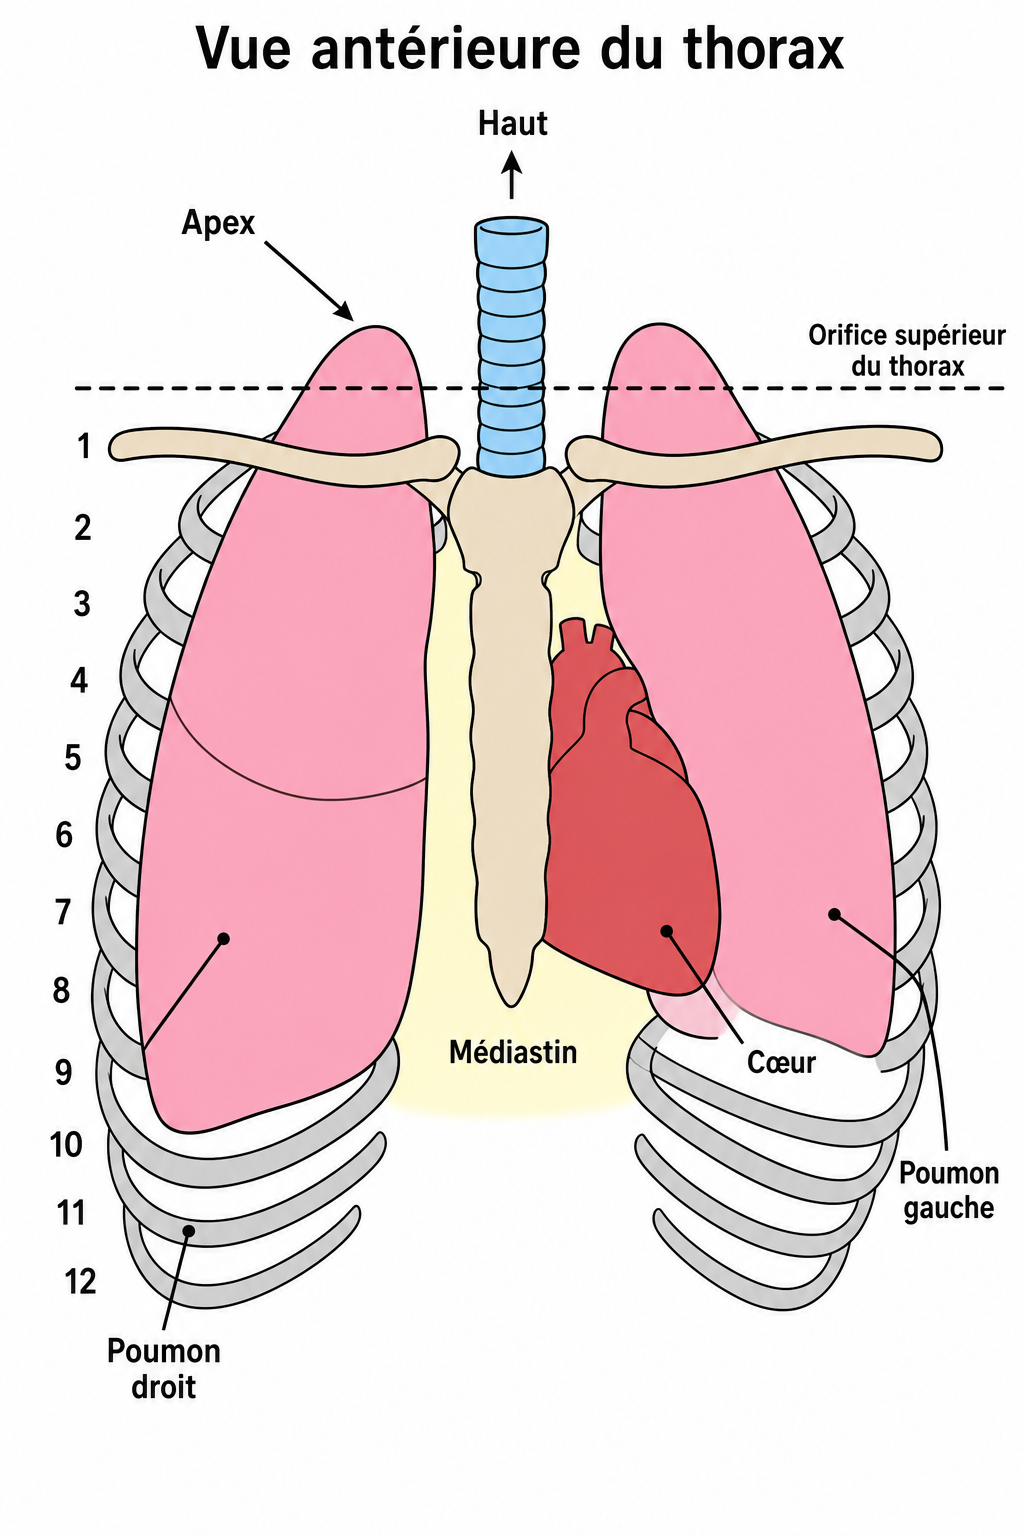
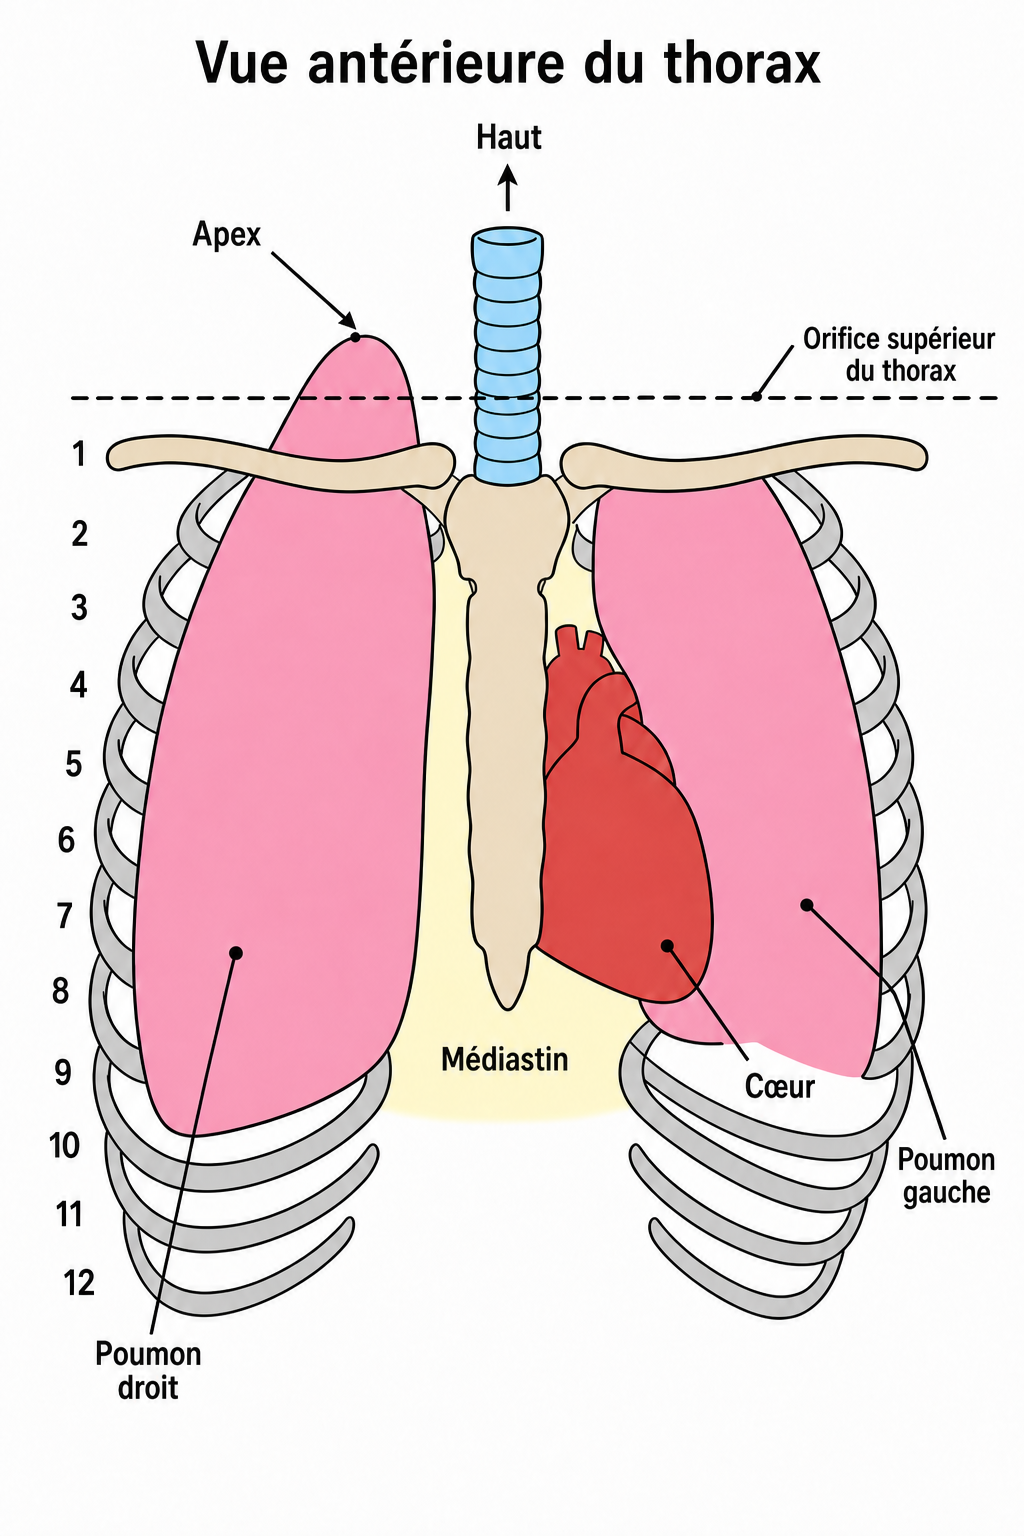
ch04: schema poumons intra-thoraciques (fleche poumon droit + sans scissure)

diff --git a/data/flash/ch04.js b/data/flash/ch04.js
@@ -62,7 +62,7 @@
     { id: "FC-ANAT-04-053", chapter: "04", priority: "P3", kind: "text", front: "Ventilation en 2 phases : noms ?", back: "Inspiration et expiration." },
     { id: "FC-ANAT-04-S01", chapter: "04", priority: "P2", kind: "schema", front: "Schéma — Voies aériennes sagittales", back: "Voies aériennes sagittales", frontImg: "matiere/anatomie/img/ch04/blank/01_voies_aeriennes_sagittale.png?v=fc4a", backImg: "matiere/anatomie/img/ch04/01_voies_aeriennes_sagittale.png?v=fc4a" },
     { id: "FC-ANAT-04-S02", chapter: "04", priority: "P2", kind: "schema", front: "Schéma — Larynx, trachée, bronches", back: "Larynx, trachée, bronches", frontImg: "matiere/anatomie/img/ch04/blank/02_larynx_trachee_bronches.png", backImg: "matiere/anatomie/img/ch04/02_larynx_trachee_bronches.png" },
-    { id: "FC-ANAT-04-S03", chapter: "04", priority: "P2", kind: "schema", front: "Schéma — Poumons dans le thorax et apex", back: "Poumons dans le thorax et apex", frontImg: "matiere/anatomie/img/ch04/blank/03_poumons_thorax_apex.png", backImg: "matiere/anatomie/img/ch04/03_poumons_thorax_apex.png" },
+    { id: "FC-ANAT-04-S03", chapter: "04", priority: "P2", kind: "schema", front: "Schéma — Poumons dans le thorax et apex", back: "Poumons dans le thorax et apex", frontImg: "matiere/anatomie/img/ch04/blank/03_poumons_thorax_apex.png?v=fc4b", backImg: "matiere/anatomie/img/ch04/03_poumons_thorax_apex.png?v=fc4b" },
     { id: "FC-ANAT-04-S04", chapter: "04", priority: "P2", kind: "schema", front: "Schéma — Poumon droit — 3 lobes", back: "Poumon droit — 3 lobes", frontImg: "matiere/anatomie/img/ch04/blank/04_poumon_droit_3_lobes.png", backImg: "matiere/anatomie/img/ch04/04_poumon_droit_3_lobes.png" },
     { id: "FC-ANAT-04-S05", chapter: "04", priority: "P2", kind: "schema", front: "Schéma — Poumon gauche — 2 lobes", back: "Poumon gauche — 2 lobes", frontImg: "matiere/anatomie/img/ch04/blank/05_poumon_gauche_2_lobes.png", backImg: "matiere/anatomie/img/ch04/05_poumon_gauche_2_lobes.png" }
   ];

diff --git a/matiere/anatomie/ch04.html b/matiere/anatomie/ch04.html
@@ -190,7 +190,7 @@
     <section class="point" id="p6">
       <h2>6. Intra-thoraciques <span class="tag p2">P2</span></h2>
       <figure class="schema">
-        <img src="./img/ch04/03_poumons_thorax_apex.png" alt="Poumons dans le thorax et apex" />
+        <img src="./img/ch04/03_poumons_thorax_apex.png?v=fc4b" alt="Poumons dans le thorax et apex" />
       </figure>
       <div class="label-quiz" data-labels='[["extra mediastinaux","extra-mediastinaux"],["apex"],["1ere cote","1ere cote","premiere cote"]]'>
         <div class="course-cloze">
